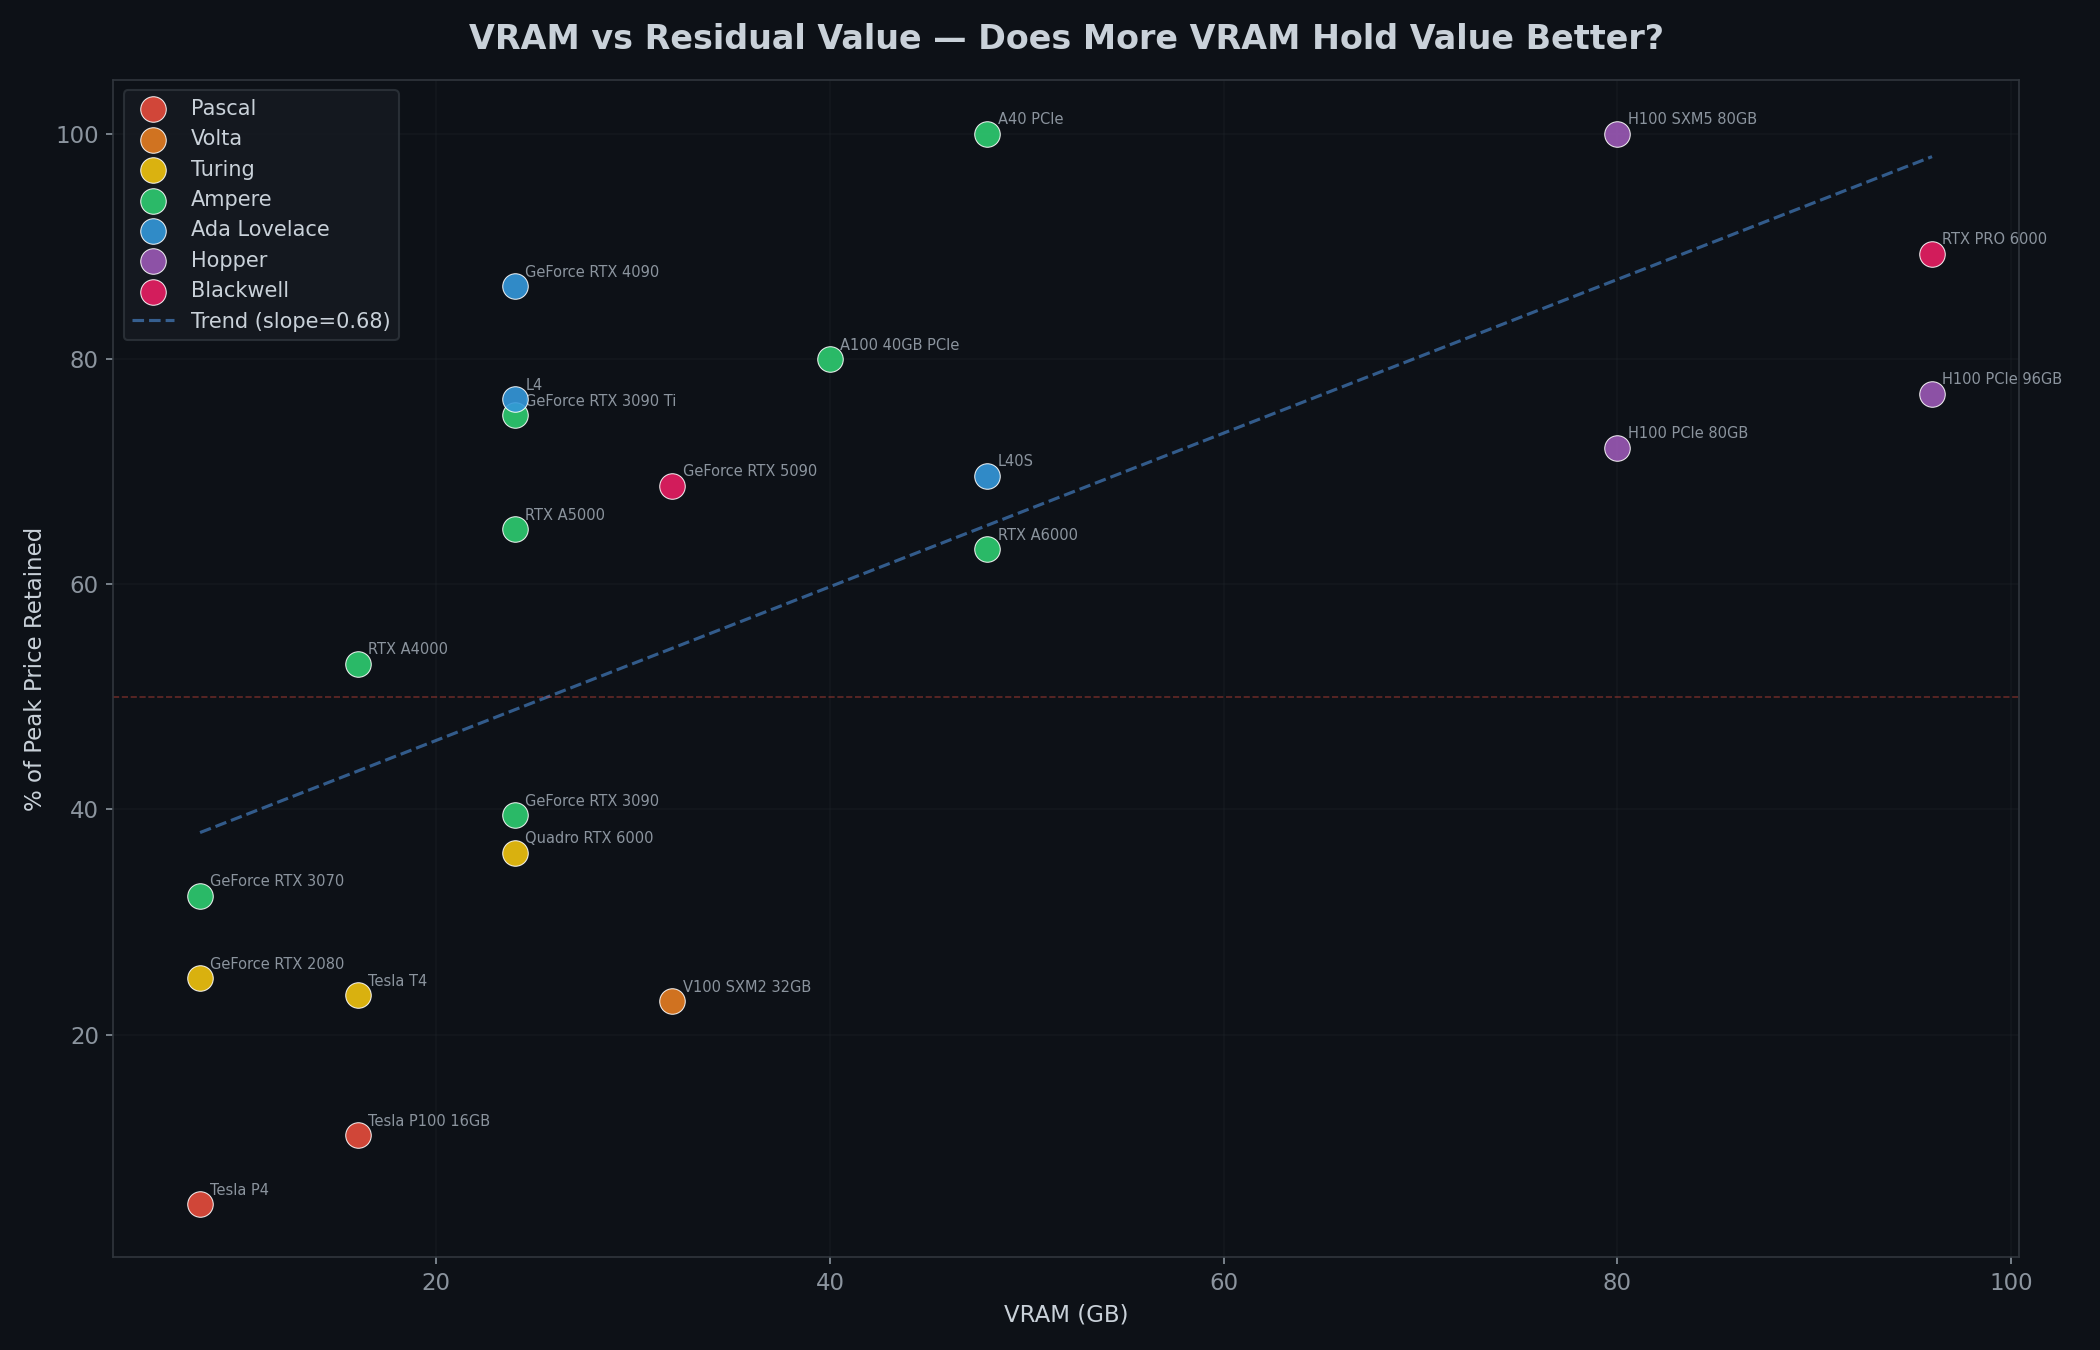
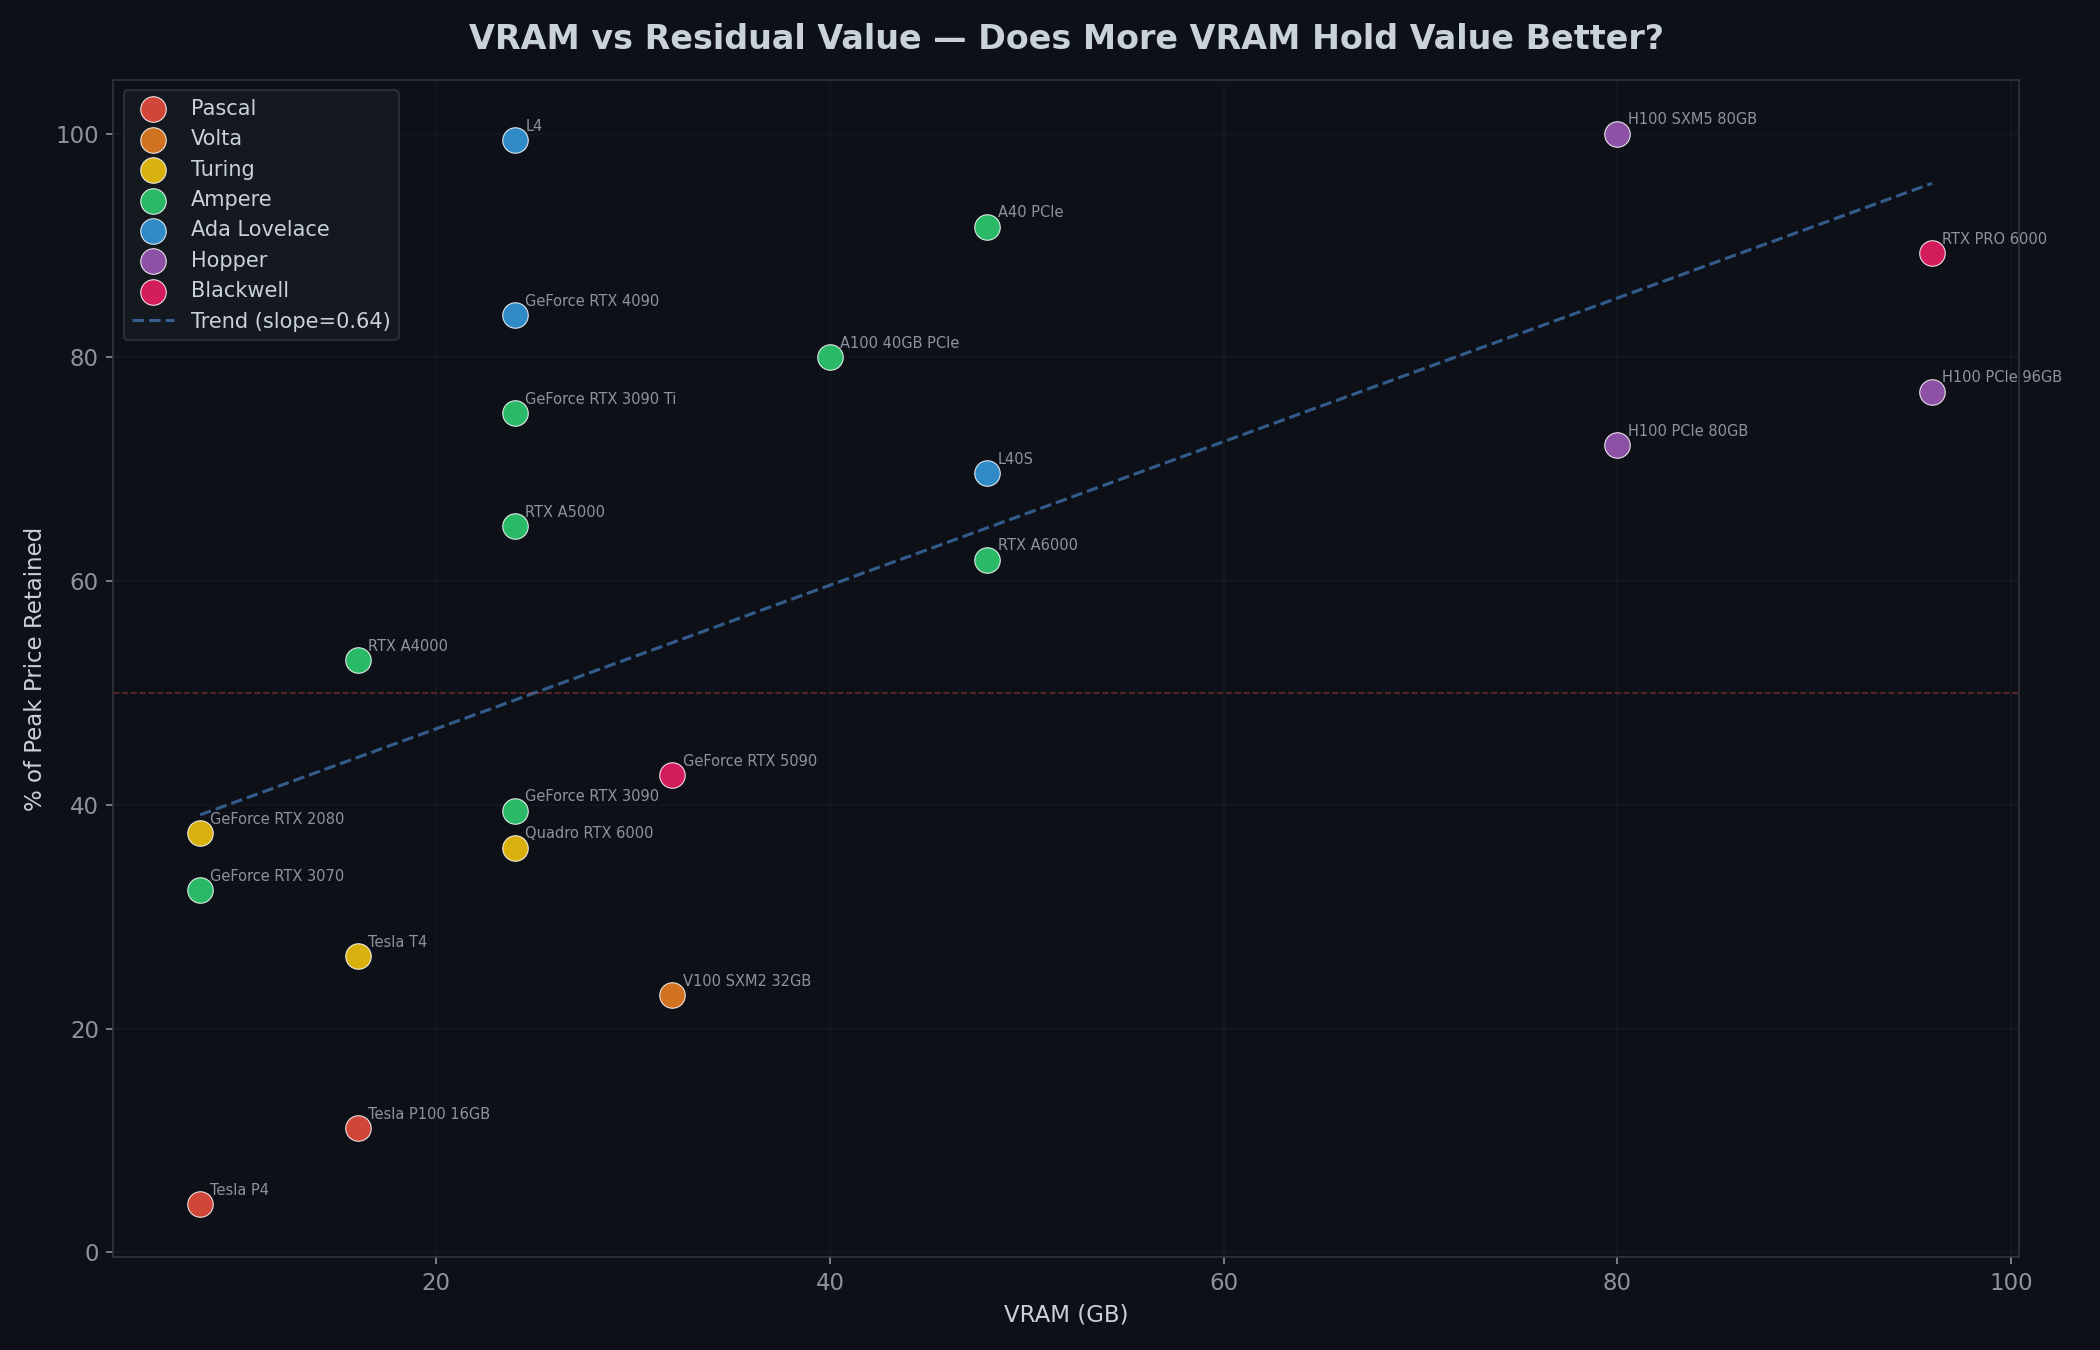
Update prices from gpu-price-tracker charts (through Aug 2025)
Read latest data points from price_history_charts/*.png images
(last updated 2025-08-24 in gpu-price-tracker repo).

Key corrections:
- RTX 5090: launch price was ~$7,500 (scalper premium), not $2,800
  Dropped to ~$3,200 by June 2025 (57% decline in 4 months)
- Added Aug 2025 data points for: Tesla P4, T4, RTX 2080,
  Quadro RTX 6000, RTX 3090, 3090 Ti, 4090, A100, A40, RTX A6000, L4
- A40 PCIe: corrected Jan 2024 spike to $5,350 (visible in chart)
- Added source documentation header to PHYSICAL_PRICES

287 price observations across 22 GPUs (was 271)

diff --git a/src/price_data.py b/src/price_data.py
@@ -1,8 +1,11 @@
 """
-GPU price observations — Amazon Buy Box (via Keepa) and cloud rental rates.
+GPU price observations — Amazon Buy Box prices.
 
-Physical prices extracted from gpu-price-tracker price history charts.
-Cloud rental rates from gpu-price-tracker fetcher configurations.
+Source: gpu-price-tracker repo (github.com/yachty66/gpu-price-tracker)
+  - price_history_charts/*.png — Keepa/Amazon Buy Box daily prices plotted as charts
+  - Charts last updated: 2025-08-24 (commit 70a1a5f)
+  - Values read from chart images (±5% precision)
+  - Original data in Supabase (not exported to git)
 """
 
 # Amazon Buy Box prices over time  {gpu_name: {"YYYY-MM": price_usd}}
@@ -17,6 +20,7 @@ PHYSICAL_PRICES = {
         "2022-06": 400, "2022-09": 300, "2023-01": 350,
         "2023-06": 300, "2023-09": 250, "2024-01": 250,
         "2024-06": 200, "2024-12": 180, "2025-06": 150,
+        "2025-08": 130,   # chart end — ~$130
     },
     "Tesla P100 16GB": {
         "2021-01": 3600, "2021-03": 2800, "2021-06": 3000,
@@ -43,7 +47,7 @@ PHYSICAL_PRICES = {
         "2022-06": 2100, "2022-09": 1700, "2023-01": 1500,
         "2023-06": 1450, "2023-09": 1200, "2024-01": 1100,
         "2024-06": 1000, "2024-12": 850, "2025-03": 750,
-        "2025-06": 800,
+        "2025-06": 750, "2025-08": 900,  # chart: slight uptick to ~$900
     },
     "Quadro RTX 6000": {
         "2019-01": 4700, "2019-06": 3700, "2019-12": 3500,
@@ -51,7 +55,8 @@ PHYSICAL_PRICES = {
         "2021-12": 4200, "2022-03": 3900, "2022-06": 4600,
         "2022-09": 3900, "2023-01": 3300, "2023-06": 2700,
         "2023-09": 2500, "2024-01": 2300, "2024-06": 2200,
-        "2024-12": 2300, "2025-03": 2000, "2025-06": 1700,
+        "2024-12": 2300, "2025-01": 2100, "2025-03": 2000,
+        "2025-06": 1800, "2025-08": 1700,  # chart: continued decline ~$1700
     },
     "GeForce RTX 2080": {
         "2018-09": 950, "2019-03": 800, "2019-09": 750,
@@ -59,28 +64,32 @@ PHYSICAL_PRICES = {
         "2021-03": 1500, "2021-06": 2000, "2021-12": 1850,
         "2022-06": 1850, "2023-01": 550, "2023-06": 500,
         "2023-09": 900, "2024-01": 450, "2024-06": 450,
-        "2024-12": 500, "2025-03": 600, "2025-06": 500,
+        "2024-12": 500, "2025-03": 600, "2025-06": 450,
+        "2025-08": 750,  # chart: volatile, ~$750 at end
     },
 
     # ── Ampere ───────────────────────────────────────────────
     "A100 40GB PCIe": {
         "2024-03": 8100, "2024-05": 8500, "2024-07": 7800,
         "2024-09": 8300, "2024-11": 7500, "2025-01": 8400,
-        "2025-03": 8300, "2025-05": 7500, "2025-07": 6800,
+        "2025-03": 8300, "2025-05": 8300, "2025-06": 7500,
+        "2025-07": 7000, "2025-08": 6800,  # chart: dropping to ~$6800
     },
     "A40 PCIe": {
         "2022-03": 5100, "2022-06": 4300, "2022-09": 5200,
         "2022-12": 4100, "2023-03": 4100, "2023-06": 4100,
-        "2023-09": 4100, "2024-01": 4600, "2024-03": 5000,
-        "2024-06": 4900, "2024-12": 4900, "2025-03": 5000,
-        "2025-06": 5800,
+        "2023-09": 4100, "2024-01": 4600, "2024-03": 5350,
+        "2024-06": 5000, "2024-12": 4900, "2025-01": 4900,
+        "2025-03": 4900, "2025-05": 6000, "2025-06": 5800,
+        "2025-07": 5500,  # chart: spike then settling ~$5500
     },
     "RTX A6000": {
         "2022-01": 8400, "2022-03": 6500, "2022-06": 4700,
         "2022-09": 4700, "2022-12": 4100, "2023-03": 4100,
         "2023-06": 4000, "2023-09": 4500, "2024-01": 4800,
         "2024-06": 4800, "2024-09": 4500, "2025-01": 4800,
-        "2025-03": 5200, "2025-06": 5300,
+        "2025-03": 5200, "2025-05": 5500, "2025-06": 5300,
+        "2025-08": 5200,  # chart: ~$5200 at end
     },
     "RTX A5000": {
         "2023-06": 2350, "2023-09": 2300, "2024-03": 2400,
@@ -101,12 +110,14 @@ PHYSICAL_PRICES = {
         "2023-01": 1700, "2023-06": 1600, "2023-09": 1500,
         "2024-01": 1600, "2024-06": 1500, "2024-12": 1600,
         "2025-03": 1700, "2025-06": 1500,
+        "2025-08": 1500,  # chart: flat ~$1500
     },
     "GeForce RTX 3090 Ti": {
         "2022-03": 2600, "2022-06": 2400, "2022-09": 1400,
         "2022-12": 1500, "2023-03": 1700, "2023-06": 1900,
         "2023-09": 1800, "2024-01": 2000, "2024-06": 1700,
         "2024-09": 1500, "2025-01": 1600, "2025-06": 1950,
+        "2025-08": 1950,  # chart: ~$1950 at end
     },
     "GeForce RTX 3070": {
         "2020-10": 1200, "2021-03": 1150, "2021-06": 1700,
@@ -122,7 +133,8 @@ PHYSICAL_PRICES = {
         "2023-03": 1900, "2023-06": 1750, "2023-09": 2000,
         "2024-01": 2400, "2024-03": 2100, "2024-06": 2000,
         "2024-09": 2500, "2024-12": 2600, "2025-01": 3100,
-        "2025-03": 3700, "2025-06": 3200,
+        "2025-03": 3700, "2025-05": 3200, "2025-06": 3100,
+        "2025-08": 3100,  # chart: settling ~$3100
     },
     "L40S": {
         "2023-11": 13800, "2023-12": 14000, "2024-01": 11600,
@@ -131,8 +143,9 @@ PHYSICAL_PRICES = {
     },
     "L4": {
         "2024-08": 2950, "2024-12": 2950, "2025-02": 2980,
-        "2025-03": 2850, "2025-05": 3270, "2025-06": 2700,
-        "2025-07": 2500,
+        "2025-03": 2850, "2025-04": 2880, "2025-05": 3270,
+        "2025-06": 2700, "2025-07": 2500,
+        "2025-08": 3250,  # chart: volatile, spiked back to ~$3250
     },
 
     # ── Hopper ───────────────────────────────────────────────
@@ -152,10 +165,10 @@ PHYSICAL_PRICES = {
     },
 
     # ── Blackwell ────────────────────────────────────────────
+    # RTX 5090: chart shows launch at ~$7500, rapid decline to ~$3200
     "GeForce RTX 5090": {
-        "2025-02": 2800, "2025-03": 3200, "2025-05": 2900,
-        "2025-07": 2700, "2025-09": 2500, "2025-11": 2400,
-        "2026-01": 2300, "2026-03": 2200,
+        "2025-02": 7500, "2025-03": 5000, "2025-04": 4500,
+        "2025-05": 4200, "2025-06": 3500, "2025-06-10": 3200,
     },
     "RTX PRO 6000": {
         "2025-06": 7500, "2025-08": 7200, "2025-10": 6900,

diff --git a/REPORT.md b/REPORT.md
@@ -1,5 +1,5 @@
 # NVIDIA GPU Depreciation & Investment Analysis
-_Generated: 2026-03-16 16:44_
+_Generated: 2026-03-16 16:56_
 
 > **Purpose**: Evaluate whether NVIDIA GPUs hold value over time,
 > and what that means for investing in CRWV, NBIN, NVDA, and ORCL.
@@ -8,28 +8,28 @@ _Generated: 2026-03-16 16:44_
 
 | GPU | Generation | VRAM | FP16 TFLOPS | Age (yr) | Peak → Latest | Residual | Annual Depr | $/TFLOPS |
 |-----|-----------|------|-------------|----------|---------------|----------|-------------|----------|
-| Tesla P4 | Pascal | 8GB | 89.1 | 8.8 | $3,000 → $150 | 5% | 11%/yr | $2 |
+| Tesla P4 | Pascal | 8GB | 89.1 | 8.9 | $3,000 → $130 | 4% | 11%/yr | $1 |
 | Tesla P100 16GB | Pascal | 16GB | 19.1 | 9.0 | $3,600 → $400 | 11% | 10%/yr | $21 |
 | V100 SXM2 32GB | Volta | 32GB | 31.3 | 7.4 | $8,700 → $2,000 | 23% | 10%/yr | $64 |
-| GeForce RTX 2080 | Turing | 8GB | 20.1 | 6.8 | $2,000 → $500 | 25% | 7%/yr | $25 |
-| Quadro RTX 6000 | Turing | 24GB | 32.6 | 6.8 | $4,700 → $1,700 | 36% | 9%/yr | $52 |
-| Tesla T4 | Turing | 16GB | 65.1 | 6.8 | $3,400 → $800 | 24% | 10%/yr | $12 |
-| RTX A6000 | Ampere | 48GB | 38.7 | 4.7 | $8,400 → $5,300 | 63% | 8%/yr | $137 |
-| A100 40GB PCIe | Ampere | 40GB | 78.0 | 5.1 | $8,500 → $6,800 | 80% | 3%/yr | $87 |
-| GeForce RTX 3090 | Ampere | 24GB | 35.6 | 4.8 | $3,800 → $1,500 | 39% | 5%/yr | $42 |
+| GeForce RTX 2080 | Turing | 8GB | 20.1 | 6.9 | $2,000 → $750 | 38% | 3%/yr | $37 |
+| Quadro RTX 6000 | Turing | 24GB | 32.6 | 7.0 | $4,700 → $1,700 | 36% | 9%/yr | $52 |
+| Tesla T4 | Turing | 16GB | 65.1 | 6.9 | $3,400 → $900 | 26% | 9%/yr | $14 |
+| RTX A6000 | Ampere | 48GB | 38.7 | 4.8 | $8,400 → $5,200 | 62% | 8%/yr | $134 |
+| A100 40GB PCIe | Ampere | 40GB | 78.0 | 5.2 | $8,500 → $6,800 | 80% | 3%/yr | $87 |
+| GeForce RTX 3090 | Ampere | 24GB | 35.6 | 4.9 | $3,800 → $1,500 | 39% | 5%/yr | $42 |
 | GeForce RTX 3070 | Ampere | 8GB | 20.3 | 4.8 | $1,700 → $550 | 32% | 11%/yr | $27 |
-| A40 PCIe | Ampere | 48GB | 37.4 | 4.7 | $5,800 → $5,800 | 100% | -3%/yr | $155 |
+| A40 PCIe | Ampere | 48GB | 37.4 | 4.8 | $6,000 → $5,500 | 92% | -2%/yr | $147 |
 | RTX A4000 | Ampere | 16GB | 19.2 | 4.2 | $1,700 → $900 | 53% | 10%/yr | $47 |
 | RTX A5000 | Ampere | 24GB | 27.8 | 4.2 | $2,850 → $1,850 | 65% | 5%/yr | $67 |
-| GeForce RTX 4090 | Ada Lovelace | 24GB | 82.6 | 2.8 | $3,700 → $3,200 | 86% | -7%/yr | $39 |
+| GeForce RTX 4090 | Ada Lovelace | 24GB | 82.6 | 2.9 | $3,700 → $3,100 | 84% | -5%/yr | $38 |
 | L40S | Ada Lovelace | 48GB | 91.6 | 2.1 | $14,000 → $9,750 | 70% | 14%/yr | $106 |
-| GeForce RTX 3090 Ti | Ampere | 24GB | 40.0 | 3.4 | $2,600 → $1,950 | 75% | 7%/yr | $49 |
+| GeForce RTX 3090 Ti | Ampere | 24GB | 40.0 | 3.6 | $2,600 → $1,950 | 75% | 7%/yr | $49 |
 | H100 PCIe 80GB | Hopper | 80GB | 204.9 | 2.3 | $34,800 → $25,100 | 72% | 12%/yr | $122 |
 | H100 PCIe 96GB | Hopper | 96GB | 248.3 | 2.3 | $39,000 → $30,000 | 77% | 10%/yr | $121 |
-| L4 | Ada Lovelace | 24GB | 30.3 | 2.3 | $3,270 → $2,500 | 76% | 7%/yr | $83 |
+| L4 | Ada Lovelace | 24GB | 30.3 | 2.4 | $3,270 → $3,250 | 99% | -4%/yr | $107 |
 | H100 SXM5 80GB | Hopper | 80GB | 267.6 | 1.9 | $18,550 → $18,550 | 100% | 0%/yr | $69 |
 | RTX PRO 6000 | Blackwell | 96GB | 125.2 | 0.8 | $7,500 → $6,700 | 89% | 14%/yr | $54 |
-| GeForce RTX 5090 | Blackwell | 32GB | 104.8 | 1.2 | $3,200 → $2,200 | 69% | 18%/yr | $21 |
+| GeForce RTX 5090 | Blackwell | 32GB | 104.8 | 0.4 | $7,500 → $3,200 | 43% | 138%/yr | $31 |
 
 ## 2. Three Phases of GPU Depreciation
 
@@ -74,15 +74,15 @@ Phase 3 (4+yr):   Slow bleed ~5-10%/yr, hits a floor
 | H100 PCIe 80GB | $25,100 | $2.44 | $44,917 | $18,214 | $26,703 |
 | A100 40GB PCIe | $6,800 | $1.70 | $31,203 | $5,220 | $25,982 |
 | L40S | $9,750 | $1.41 | $25,864 | $7,377 | $18,487 |
-| GeForce RTX 5090 | $2,200 | $0.89 | $16,384 | $2,598 | $13,785 |
-| Tesla T4 | $800 | $0.59 | $10,861 | $689 | $10,172 |
-| GeForce RTX 4090 | $3,200 | $0.69 | $12,702 | $3,068 | $9,634 |
-| L4 | $2,500 | $0.61 | $11,321 | $1,883 | $9,439 |
-| RTX A6000 | $5,300 | $0.65 | $11,874 | $4,262 | $7,611 |
+| GeForce RTX 5090 | $3,200 | $0.89 | $16,384 | $3,298 | $13,085 |
+| Tesla T4 | $900 | $0.59 | $10,861 | $759 | $10,102 |
+| GeForce RTX 4090 | $3,100 | $0.69 | $12,702 | $2,998 | $9,704 |
+| L4 | $3,250 | $0.61 | $11,321 | $2,408 | $8,914 |
+| RTX A6000 | $5,200 | $0.65 | $11,874 | $4,192 | $7,681 |
 | Quadro RTX 6000 | $1,700 | $0.50 | $9,204 | $1,669 | $7,536 |
 | V100 SXM2 32GB | $2,000 | $0.49 | $9,020 | $1,860 | $7,160 |
 | GeForce RTX 3090 | $1,500 | $0.43 | $7,916 | $1,694 | $6,221 |
-| A40 PCIe | $5,800 | $0.40 | $7,363 | $4,612 | $2,751 |
+| A40 PCIe | $5,500 | $0.40 | $7,363 | $4,402 | $2,961 |
 
 ## 6. Investment Implications
 
